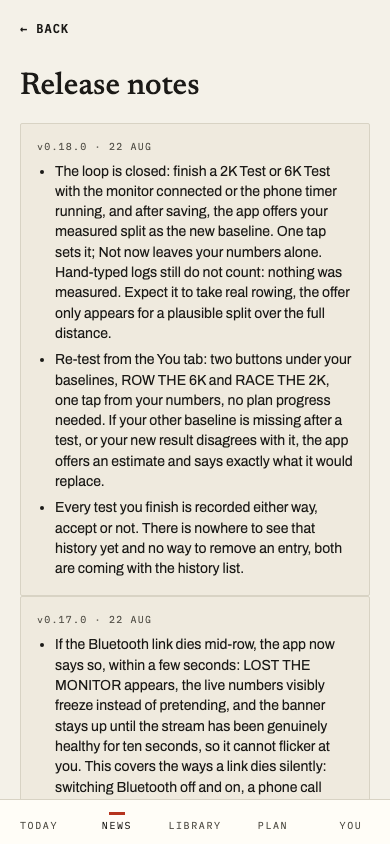
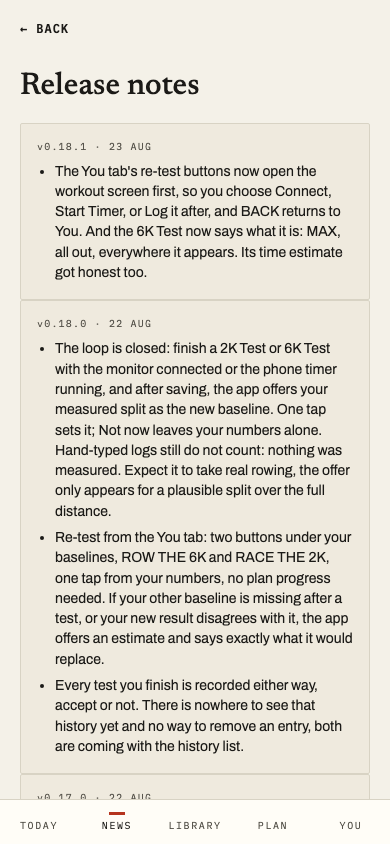
docs: Phase LL closes with conditions — the seven landed, and the v0.17.0 note stops over-promising (#171)
Claude-Session: https://claude.ai/code/session_01UEXqdgDid4Qjd8D5uoRZ3H

Changed region(s): [[0.0923, 0.1848, 0.9231, 0.955]]

diff --git a/app/src/news/content/releaseNotes.ts b/app/src/news/content/releaseNotes.ts
@@ -46,7 +46,7 @@ export const RELEASE_NOTES: ReleaseNote[] = [
     date: "2026-08-22",
     items: [
       "If the Bluetooth link dies mid-row, the app now says so, within a few seconds: LOST THE MONITOR appears, the live numbers visibly freeze instead of pretending, and the banner stays up until the stream has been genuinely healthy for ten seconds, so it cannot flicker at you. This covers the ways a link dies silently: switching Bluetooth off and on, a phone call taking the app to the background, and drops the app used to swallow.",
-      "A session the link killed is recorded as exactly that. Ending a session under the lost banner stores it as link-lost, not as you giving up: your history can finally tell the difference between the app losing your row and you stopping early.",
+      "A session the link killed is recorded as exactly that. Ending a session under the lost banner stores it as link-lost, not as you giving up. (Corrected 2026-08-23: the record knows the difference; the history screen does not show it yet. That surface is coming.)",
       "A failed connection attempt no longer poisons the next one. Try Again genuinely starts over, and the app asks your phone what it is already connected to before offering to connect again.",
       "There is a connection log now, one tap from the failure screen, with timestamps. If something goes wrong at the erg, copying that log is the single most useful thing you can send.",
     ],

diff --git a/ROADMAP.md b/ROADMAP.md
@@ -1690,6 +1690,15 @@ it, which is why none of these have blocked anything so far. The moment a
 build goes to EXTERNAL TestFlight or the App Store, they all bind at once.
 Nothing here should be discovered at submission time.
 
+- [ ] **F1 from Phase LL's exit walk (2026-08-23): the failure screen's
+      Try again is DEAD after a mid-session BT-off** — the failure
+      disposal tears down the per-session `onEnabledChanged` listener, so
+      the enabled-true event has no ear (sharper repro: an attempt STARTED
+      with BT off keeps a working button — the bug is localised to the
+      disposal). PROD's exit is an empty-phone install reaching a logged
+      row UNAIDED; a dead button with no feedback defeats "unaided"
+      directly. Until fixed, the cohort note carries "if Try again does
+      nothing, tap Cancel then Connect" (Release posture, Phase LL).
 - [ ] **App icon redraw** (was a triggered follow-on). Replace the
       AI-generated icon with a clean SVG. What is actually wrong with it,
       checked against the asset itself
@@ -2166,8 +2175,14 @@ WebKit's throttling, so it does not rescue the JS half.
       across the boundary and "the very next frame reset[s] `elapsed` to 0"
       — §19.1's correction at `:3290` calls it "the one and only
       elapsed-reset-while-rowing in the whole log" ([S2] D4, 2026-08-06).
-      **What is genuinely open is whether DISTANCE resets at a work→work
-      boundary**, which neither passage states. It matters: if it does not,
+      **ANSWERED 2026-08-23, from the keystone capture nobody had read
+      (close-gate condition 3): DISTANCE DOES reset at a zero-rest
+      work→work boundary** —
+      `walk-2026-08-23/keystone-pm5-recording-1787491974452.jsonl.gz`
+      seq 305→310: elapsed 69.75→0.50, distance 248.5→1.9, rowingState 1
+      throughout, TWD 0→250. The feared over-report does not exist. No
+      rowing owed; this box is checked by a committed file. (The original
+      open question, kept for the record:) It matters: if it does not,
       the new accumulator silently OVER-reports on zero-rest boundaries —
       direction-flipped from the bug just fixed, and a shape the old
       edge-triggered code would have got right. Not exotic either:
@@ -2183,9 +2198,14 @@ WebKit's throttling, so it does not rescue the JS half.
       breaking the trace line** — lost when three tests built on an invalid
       four-session capture were removed (PR #140). **Owner BOUND to Phase
       LL's exit walk** (PM gate, 2026-08-20): the deliverable is a CAPTURE,
-      and captures come from walks, not from tasks — and this phase's own
-      exit walk produces a genuine >3 s gap as a matter of course. Sits
-      beside exit clause (e) so the phase can go red on it. **S**
+      and captures come from walks, not from tasks. **UN-BOUND from the
+      exit walk (close gate, 2026-08-23): the walk structurally could not
+      produce it** — `adapters/monitorTransport.ts:70` composes the
+      recorder on the WEB arm only, so the laptop leg had the recorder and
+      no gaps and the phone leg had the gaps and no recorder. New home: a
+      deliberate web-leg capture (background the Chrome tab mid-piece at
+      any future lab session), or extend the recorder to the native arm
+      first. Sits beside exit clause (e) so it cannot silently vanish. **S**
 - [ ] **BEFORE the next tag: three owed clauses plus a version-marker
       ruling** (PM gate, round 4 of the Task 2 PR review, 2026-08-20;
       third clause added by the EST LEFT task, 2026-08-20).
@@ -2207,7 +2227,13 @@ WebKit's throttling, so it does not rescue the JS half.
       behavior, not the label. **Still open — Task 3 (the axis) landed
       2026-08-20 and the EST LEFT fix landed 2026-08-20, so this item is
       now fully armed: all three clauses' subject matter exists in
-      shipped code, and whoever cuts v0.15.0 owes all three.** **New
+      shipped code, and whoever cuts v0.15.0 owes all three.** **Clause
+      (4), added at Phase LL's close gate (2026-08-23, finding F3): the
+      link-lost ending is STORED but rendered NOWHERE, and v0.17.0's
+      shipped note claims the history "can tell the difference" — either
+      the surface ships before the next tag and its clause says so, or
+      the next tag's notes carry the honest "not yet" (the false half of
+      the v0.17.0 note is struck in the same PR as this clause).** **New
       condition, this gate:** the phone→server trace leg must be
       WITNESSED before the tag
       that announces the trace fix ships, or the notes say plainly that
@@ -2576,8 +2602,12 @@ deliverable, each stated so the walk can go red:
   without a red test naming it.
 
 **WALKED 2026-08-23 — record: `docs/monitor/sessions/walk-2026-08-23/`.**
-Clauses (a) both variants, (c), (d) PASS; (b) PASS IN SUBSTANCE (Cancel →
-Connect recovers, no deletion — the brick is dead) with finding F1; (e)
+Clauses (a) both variants, (c), (d) PASS; (b) SPLIT at the gate
+(2026-08-23 PM close): its destructive-workaround half — "without deleting
+the app" — is DISCHARGED (Cancel → Connect recovers; the brick is dead);
+its "Try Again reaches a fresh connect" half is NOT MET (F1: the button is
+dead after a mid-session BT-off). No compound clause absorbs a failing
+half into a passing one; (e)
 carried by the shipped suites plus finding F2's counterexample. W5
 off-direction ✓ (on-direction is F1); W6 ✓ with F2; W7 dissolved (PM5 Menu
 mid-workout TERMINATES — state 11 on the wire — no quiet period exists, no
@@ -2594,12 +2624,20 @@ walk's three findings, filed as LL follow-ups:**
   repro: an attempt STARTED with BT off fails and keeps a live, working
   Try again — the dead state is disposal-specific. Cancel → Connect works.
 - **F2 (SERIOUS, TRIAD-weight — it closes records) — the continuity guard
-  kills a healthy row on iOS background-resume:** a transient
-  `machineTotal=0` frame arrives ~3 s after resume (81 m → 0 while
-  elapsed/distance advance), the guard reads monitor-reset, closes the
-  record link-lost, and the rower loses their measured intervals mid-pull.
-  The guard's bound is corpus(web)-derived; iOS resume was outside the
-  corpus. Any fix changes when records close → full cycle, spec first.
+  convicts on a NON-MONOTONIC key. ROOT CAUSE CORRECTED at the close gate
+  (2026-08-23): the filed "iOS resume produced a transient zeroed-TWD
+  frame" is FALSE and the walk's own files disprove it.** The day's TWD
+  readings: keystone (web) 0 across an entire 248.5 m interval then 250
+  after the boundary; ring-3 0 at 94.6 m and 0 at 33.1 m (with its own
+  `divergence` entry); ring-2 0 at 83.3 m post-resume — **five zeros
+  against ring-2's single 81 at 56.1 s. Zero is the field's normal
+  behaviour that day; the 81 is the outlier, and nothing here is
+  iOS-specific** (the web capture shows the same zeros). The convicting
+  frame had elapsed AND distance advancing while TWD went 81 → 0 — a real
+  monitor reset zeroes all three. A successor spec that inherits the "iOS
+  was outside the corpus" wording will special-case iOS and leave the web
+  path broken. Fix is SPLIT: F2a (defuse via corroboration, Phase RC
+  before RC-1) and F2b (re-key, inside RC-1/RC-8).
   `ring-phone-2-background-continuity-kill.json` is the capture.
 - **F3 (small UI) — `endedBy: "link-lost"` is stored and consumed
   (`completedFullDistance`) but rendered NOWHERE** — the log detail shows
@@ -2634,8 +2672,14 @@ arm is unchanged since v0.10.0, so a rollback ships the same bug minus
 five notes clauses. Not pulled. **But the delete-and-reinstall workaround
 is DESTRUCTIVE** — it wipes `ergomatic.monitorRun`, `ergomatic.sessionRun`
 and `ergomatic.sessionDraft`, costing an unlogged session and any
-in-progress draft. It must not be handed to any tester but James until
-criterion (b) exists.
+in-progress draft. **The original hold ("until criterion (b) exists") is
+DISCHARGED (close gate, 2026-08-23): the destructive workaround is dead —
+Cancel → Connect recovers without deletion. The cohort stays at ONE TESTER
+on a NEW condition with its own discharge test: F2a is merged (the
+continuity guard no longer convicts on a single uncorroborated TWD
+reading — a tester must not silently lose a measured row), AND either F1
+is fixed or the tester note carries "if Try again does nothing, tap
+Cancel then Connect".**
 
 ## Phase RC — The row Concept2 would recognise
 
@@ -2722,6 +2766,15 @@ that needs no erg, and it can run in a test.
 
 ### The work
 
+- [ ] **F2a — DEFUSE the continuity guard's single-reading conviction
+      (from Phase LL's exit walk, 2026-08-23). TRIAD (changes when records
+      close), full cycle, spec first, LANDS ALONE, sequenced BEFORE
+      RC-1.** The guard convicts on one backward TWD reading even when the
+      SAME frame's elapsed and distance are advancing; a real monitor
+      reset zeroes all three. Require corroboration before closing a
+      record. This is a BOUND, not a key — the correct key is F2b's,
+      inside RC-1. Evidence: the six-row TWD table in the LL walk card's
+      corrected F2 and `walk-2026-08-23/ring-phone-2-background-continuity-kill.json`.
 - [ ] **RC-1 — Store WORK and REST separately, per interval and per
       session.** TRIAD (stored shape + a number's meaning). Nothing else
       moves reconciliation. Add `restSeconds` and `type` to
@@ -2740,7 +2793,12 @@ that needs no erg, and it can run in a test.
       question** (see "The warm-up question" below): whether a warm-up is
       compiled into the same PM5 piece as the working intervals is a
       compiler change, it decides what a rower's Concept2 totals read, and
-      RC-1's spec is where it lands.
+      RC-1's spec is where it lands. **And carries F2b (Phase LL walk,
+      2026-08-23): re-key the continuity guard off TWD entirely** — the
+      walk proved TWD non-monotonic and inconsistent on time intervals
+      (five zeros against one 81 in one day; the LL walk card's corrected
+      F2 has the table). The spec inherits the CORRECTED root cause,
+      never the filed "iOS was outside the corpus" wording.
 - [ ] **RC-2 — Decode Log Entry Date/Time; log it beside our wall clock;
       store nothing yet.** Format settled from two projects and checked
       arithmetically: date `uint16` = month | day<<4 | (year-2000)<<9;

diff --git a/.claude/agents/pm-ledger.md b/.claude/agents/pm-ledger.md
@@ -1807,3 +1807,79 @@ out wrong. If something you want to add belongs in `CLAUDE.md`, put it in
   have declined to enforce it. Still James's to re-set or retire, still
   belongs in CLAUDE.md. Gates should keep spending one line on it, not a
   paragraph.
+
+## Phase-close gate, 2026-08-23 (Phase LL: the link can be lost — walked, closed with conditions)
+
+- **"PASS IN SUBSTANCE" is where a compound exit clause goes to be laundered.**
+  LL's (b) read "Try Again reaches a fresh connect and programs successfully
+  **without deleting the app**" — two claims joined by "without". The walk met
+  the second (Cancel -> Connect, no reinstall) and failed the first (F1: the
+  button is dead after a mid-session BT-off), and the verdict block absorbed
+  the failure into the pass. **Ruling: SPLIT a compound clause at its gate and
+  give each half its own verdict.** The tell is a verdict containing a
+  concessive ("...with finding F1", "in substance"). Same file already carried
+  a written warning against fudging a criterion at its own gate (ROADMAP:2245)
+  — we wrote it in August and did it in August.
+- **Discharging a clause silently discharges every rule that cited it.** The
+  cohort-of-one hold was written as "until criterion (b) exists". (b) now
+  exists in the half that rule cared about, so the hold was self-discharging
+  the moment the walk passed — while a NEW and worse reason to hold (F2 losing
+  a healthy row) had just been found. **When a gate's cited criterion is met
+  but the gate should stand, re-found it on the new criterion in the same
+  edit, with its own discharge test.** Otherwise the next reader is correct
+  and the cohort grows into an unfixed bug.
+- **An oracle that reads zero five times out of six is not "transiently
+  zeroing".** F2 was filed as "iOS resume produces a transient machineTotal=0
+  frame outside the web corpus". Every TWD reading committed that day: laptop
+  web DISTANCE capture 0 across 248.5 m; ring-3 0 at 94.6 m and 0 at 33.1 m
+  (with its own `divergence` entry); ring-2 0 at 83.3 m; ring-2 **81** at
+  81.2 m. Five zeros, one non-zero — the 81 is the outlier and the behaviour
+  is not iOS-specific. **At a close, recompute a finding's premise from the
+  walk's own committed artefacts before it becomes a successor spec's
+  starting assumption.** RF11's sibling: we did compare against the machine,
+  and then narrated the comparison backwards.
+- **Compose the findings before assigning severities.** LL's walk filed F4
+  (web cadence worst 1260 ms vs a 2500 ms watchdog, margin 2.0x not 3.09x) as
+  informational and F2 as SERIOUS-but-background-only. `applyContinuityCheck`
+  gates on `frameSilence`, not on backgrounding: F4 arms F2. **Ask of every
+  pair of findings in one walk whether one is the other's trigger** — the
+  blast radius, not the severity label, is what sets the cohort gate.
+- **A guard that convicts on one field while two fields in the same frame
+  contradict it can be defused without new knowledge.** F2's convicting frame
+  had elapsed 56.1->59.3 and distance 81.2->83.3 advancing while TWD went
+  81->0. A monitor reset resets everything. **Corollary for sequencing: split
+  a blocked fix into DEFUSE (cheap, now, no new knowledge) and KEY-IT-RIGHT
+  (rides the phase that owns the semantics).** "It rides RC-1" was right for
+  the permanent fix and would have left a record-destroying bug live for a
+  whole phase.
+- **Bind a capture deliverable to a walk LEG, never to "the walk".** The >3 s
+  wire-gap witness (bound to LL's exit walk at the 2026-08-20 gate) was
+  unobtainable: `adapters/monitorTransport.ts:70` composes the byte recorder
+  on the WEB arm only, so the laptop leg has the recorder and no gap while the
+  phone leg has the gaps and logs events, not frames. Fourth occurrence of
+  "the medium cannot answer the question" (CR2-close; LL's own W7 was the
+  third). **At any gate that assigns a capture: name the leg, and name the
+  code path that writes the file.**
+- **A walk answers questions nobody asked it.** ROADMAP's open DISTANCE
+  question (does distance reset at a zero-rest work->work boundary?) was
+  settled by the keystone the same walk committed — seq 305->310: elapsed
+  69.75->0.50, distance 248.5->1.9, rowingState 1 throughout, TWD 0->250. It
+  sat unread in the record while the item stayed `- [ ]` and nominally owed an
+  erg session. **At a phase close, re-read every open item BOUND to that walk
+  against the walk's artefacts, not against its README.**
+- **A release note is a live surface, not an archive.** v0.17.0's "your
+  history can finally tell the difference" (releaseNotes.ts:49) shipped a
+  capability with no surface (F3: `endedBy` stored, its only consumer a
+  boolean in LogSession.tsx:1338, rendered nowhere) and re-ships it every time
+  the Releases screen opens under v0.18.1. **Strike the false half now** —
+  the honest "not yet" form (v0.16.0 item 3) is the house pattern, and the
+  standing rule that notes must let the cohort falsify them cannot be met by a
+  clause describing a screen that does not exist.
+- **Backlog: 67 unchecked at v0.17.0 -> 63 on main; 66 once F1/F2a/F2b/F3 get
+  checkboxes.** Third consecutive net-negative delta.
+- **Release call: NO TAG on the close-out** (ROADMAP/ledger prose plus a
+  one-string notes correction, fast path). F3's surface + F2a's defusing tag
+  together as a MINOR, and their notes must name the DIRECTION of the change
+  to when a record closes.
+- **The 30-second rule is 0-for-10.** Still James's to re-set or retire, still
+  belongs in CLAUDE.md.

diff --git a/docs/monitor/sessions/walk-2026-08-23/README.md b/docs/monitor/sessions/walk-2026-08-23/README.md
@@ -71,10 +71,14 @@ canonical copy.
   (seq 29-32), then seq 33 carries a frame with `machineTotal=0` while
   elapsed/distance advanced (81 m → 0 at 59.3 s) and seq 34 closes the
   record as link-lost. The rower saw normal numbers, pulled, and landed on
-  an end screen with NOTHING MEASURED. The guard's corpus-derived "healthy
-  resumes never go backward" bound is web-derived; iOS resume produces a
-  transient zeroed-TWD frame the corpus never contained. TWD's own
-  semantics are also now suspect as a continuity key on native (see F5).
+  an end screen with NOTHING MEASURED. **ROOT CAUSE
+  CORRECTED at the 2026-08-23 close gate: this walk's own files show
+  TWD=0 is the field's NORMAL reading that day (five zeros incl. the web
+  capture's flat 0 across a 248.5 m interval) and the 81 is the outlier —
+  nothing iOS-specific. The defect is convicting on a non-monotonic key
+  from a single uncorroborated reading** (elapsed and distance were
+  ADVANCING in the convicting frame; a real reset zeroes all three). See
+  ROADMAP's LL walk card (corrected F2) and RC's F2a/F2b items.
 - **F3 — `endedBy: "link-lost"` is stored but rendered nowhere.** The saved
   session's log detail shows no lost-link marking (verified on-device and by
   grep: no component renders the value). v0.17.0's notes claim "your
